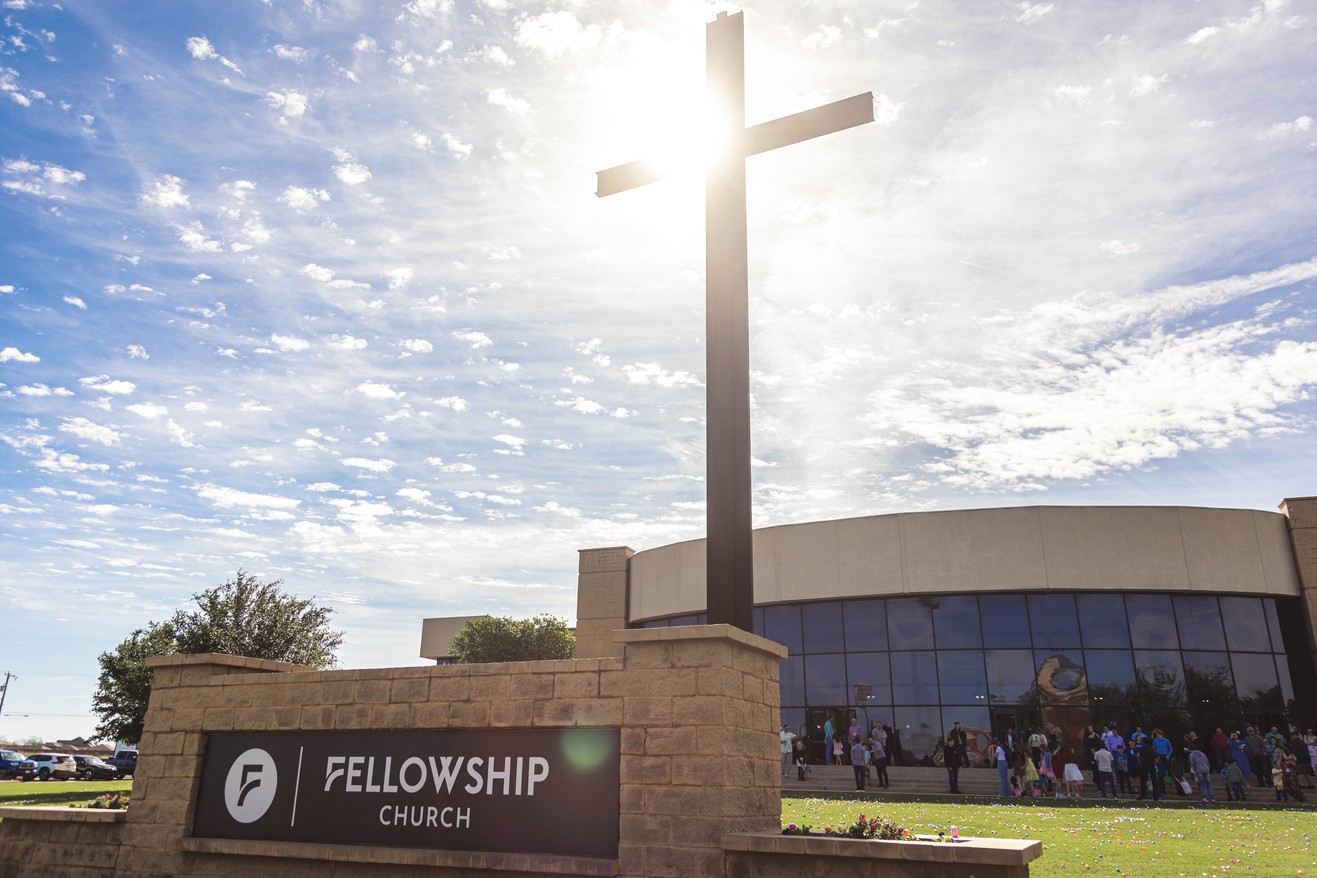
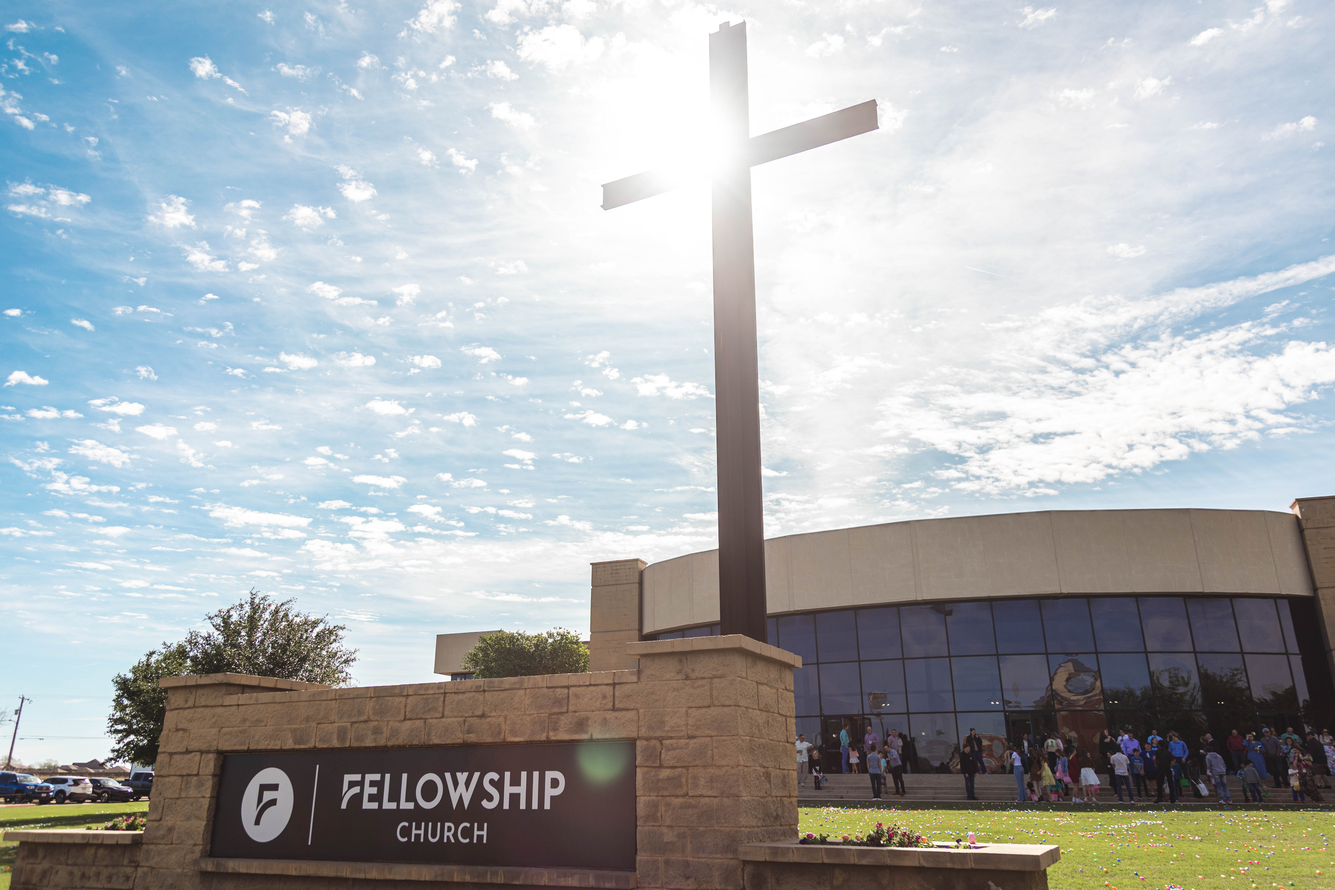
New Home Hero Image

diff --git a/frontend/src/pages/Home.jsx b/frontend/src/pages/Home.jsx
@@ -1,7 +1,6 @@
 import React, { useEffect, useState } from "react";
-import HeroImage from "../assets/home/IMG_6780.webp";
+import HeroImage from "../assets/home/BO5A0224.webp";
 import HomeNavbar from "../components/HomeNavbar";
-import EasterHero from "../components/EasterHero";
 import Service from "../assets/home/IMG_6942.webp";
 import ConnectGroups from "../assets/home/lightstock_60246_small_scott_.webp";
 import Serve from "../assets/home/serve.webp";
@@ -58,7 +57,7 @@ function Home2() {
             backgroundImage: `url(${HeroImage})`,
           }}
         >
-          <div className="absolute inset-0 bg-gradient-to-b from-black/30 via-black/10 to-black/50"></div>
+          <div className="absolute inset-0 bg-gradient-to-b from-black/40 via-black/20 to-black/60"></div>
         </div>
 
         <div className="relative z-10 h-full flex flex-col items-center justify-center text-center px-4 md:px-6 space-y-8 animate-fade-in-up">
